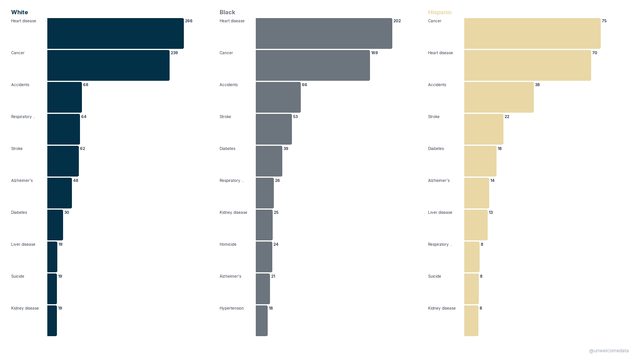
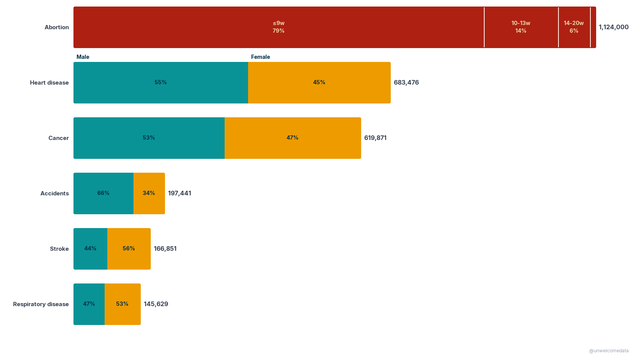
fix: abortion card thumbnail uses the on-page headline chart

diff --git a/index.html b/index.html
@@ -278,7 +278,7 @@
       </a>
 
       <a class="card" href="https://unwelcomedata.github.io/abortion-cause-of-death/">
-        <img class="card-thumb" src="thumbs/abortion-cause-of-death.png" alt="Three side-by-side ranked bar charts comparing the leading causes of death for White, Black, and Hispanic Americans." loading="lazy">
+        <img class="card-thumb" src="thumbs/abortion-cause-of-death.png" alt="Bar chart of the leading U.S. causes of death with abortion inserted at the top at about 1.12 million, above heart disease and cancer." loading="lazy">
         <div class="card-body">
           <span class="tier serious">Serious</span>
           <h3>Abortion as a Cause of Death</h3>
